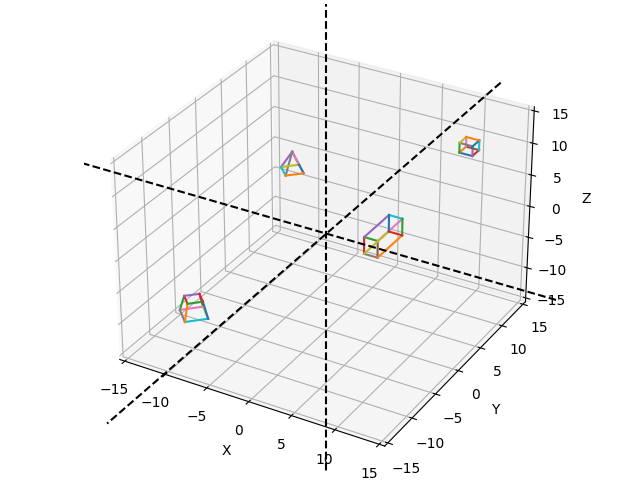
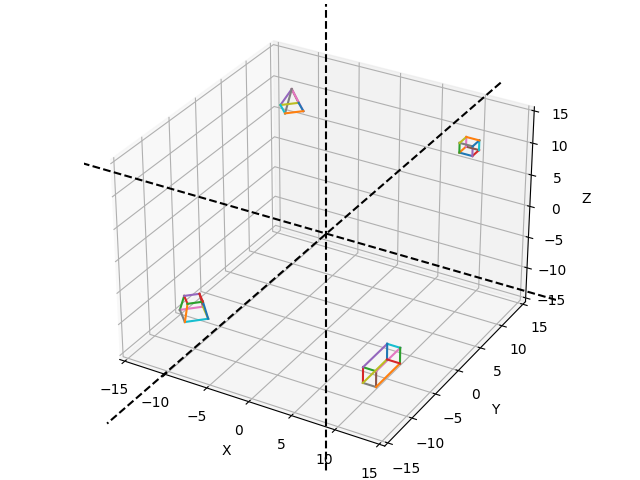
organizando os octantes

diff --git a/trabalho2/questao2.py b/trabalho2/questao2.py
@@ -20,19 +20,17 @@ from trabalho2.PiramideBaseQuadrada import PiramideBaseQuadrada
 from trabalho2.PlotaSolido import plota_solidos
 from trabalho2.TroncoPiramide import TroncoPiramide
 
-
 cubo = Cubo()
-cubo.adiciona_nos_eixos(10, 10, 10)
+cubo.adiciona_nos_eixos(10, 10, 10)  # Octante I (+, +, +)
 
 piramideBaseQuadrada = PiramideBaseQuadrada()
-piramideBaseQuadrada.adiciona_nos_eixos(-10, 10, 0)
+piramideBaseQuadrada.adiciona_nos_eixos(-10, 10, 10)  # Octante II (-, +, +)
 
 paralelepipedo = Paralelepipedo()
-paralelepipedo.adiciona_nos_eixos(10, -10, 10)
-
+paralelepipedo.adiciona_nos_eixos(10, -10, -10)  # Octante VIII (+, -, -)
 
 troncoPiramide = TroncoPiramide()
-troncoPiramide.adiciona_nos_eixos(-10, -10, -10)
+troncoPiramide.adiciona_nos_eixos(-10, -10, -10)  # Octante VII (-, -, -)
 
 solidos = list()
 solidos.append(cubo)
